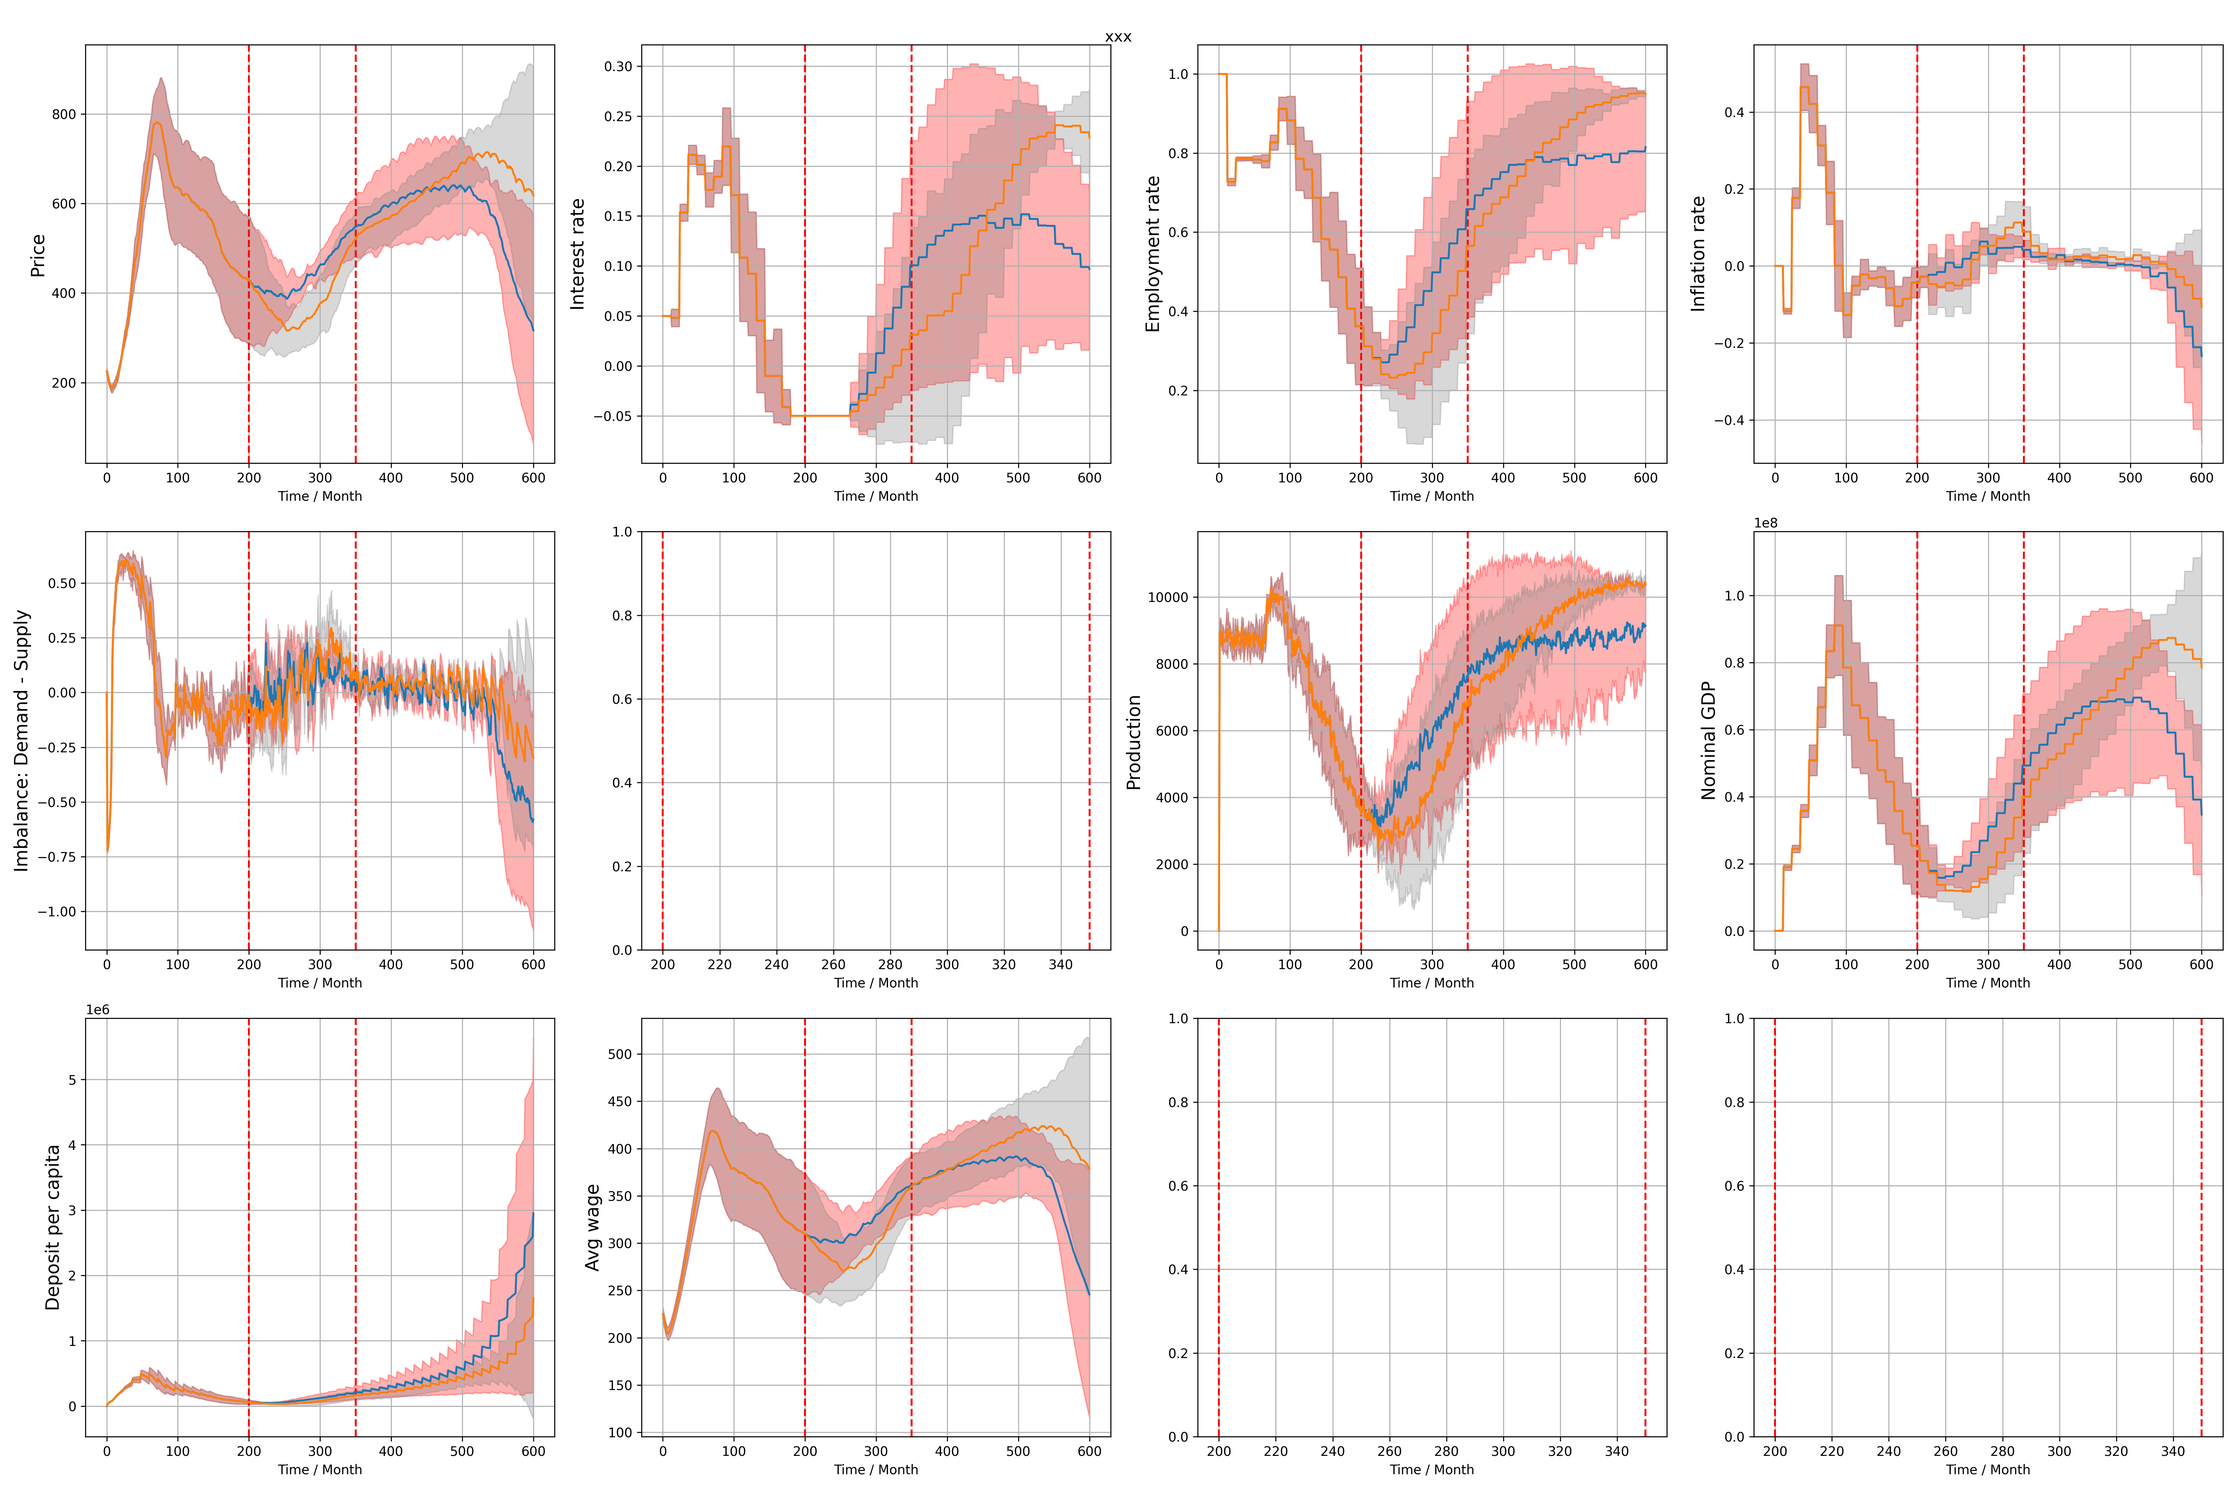
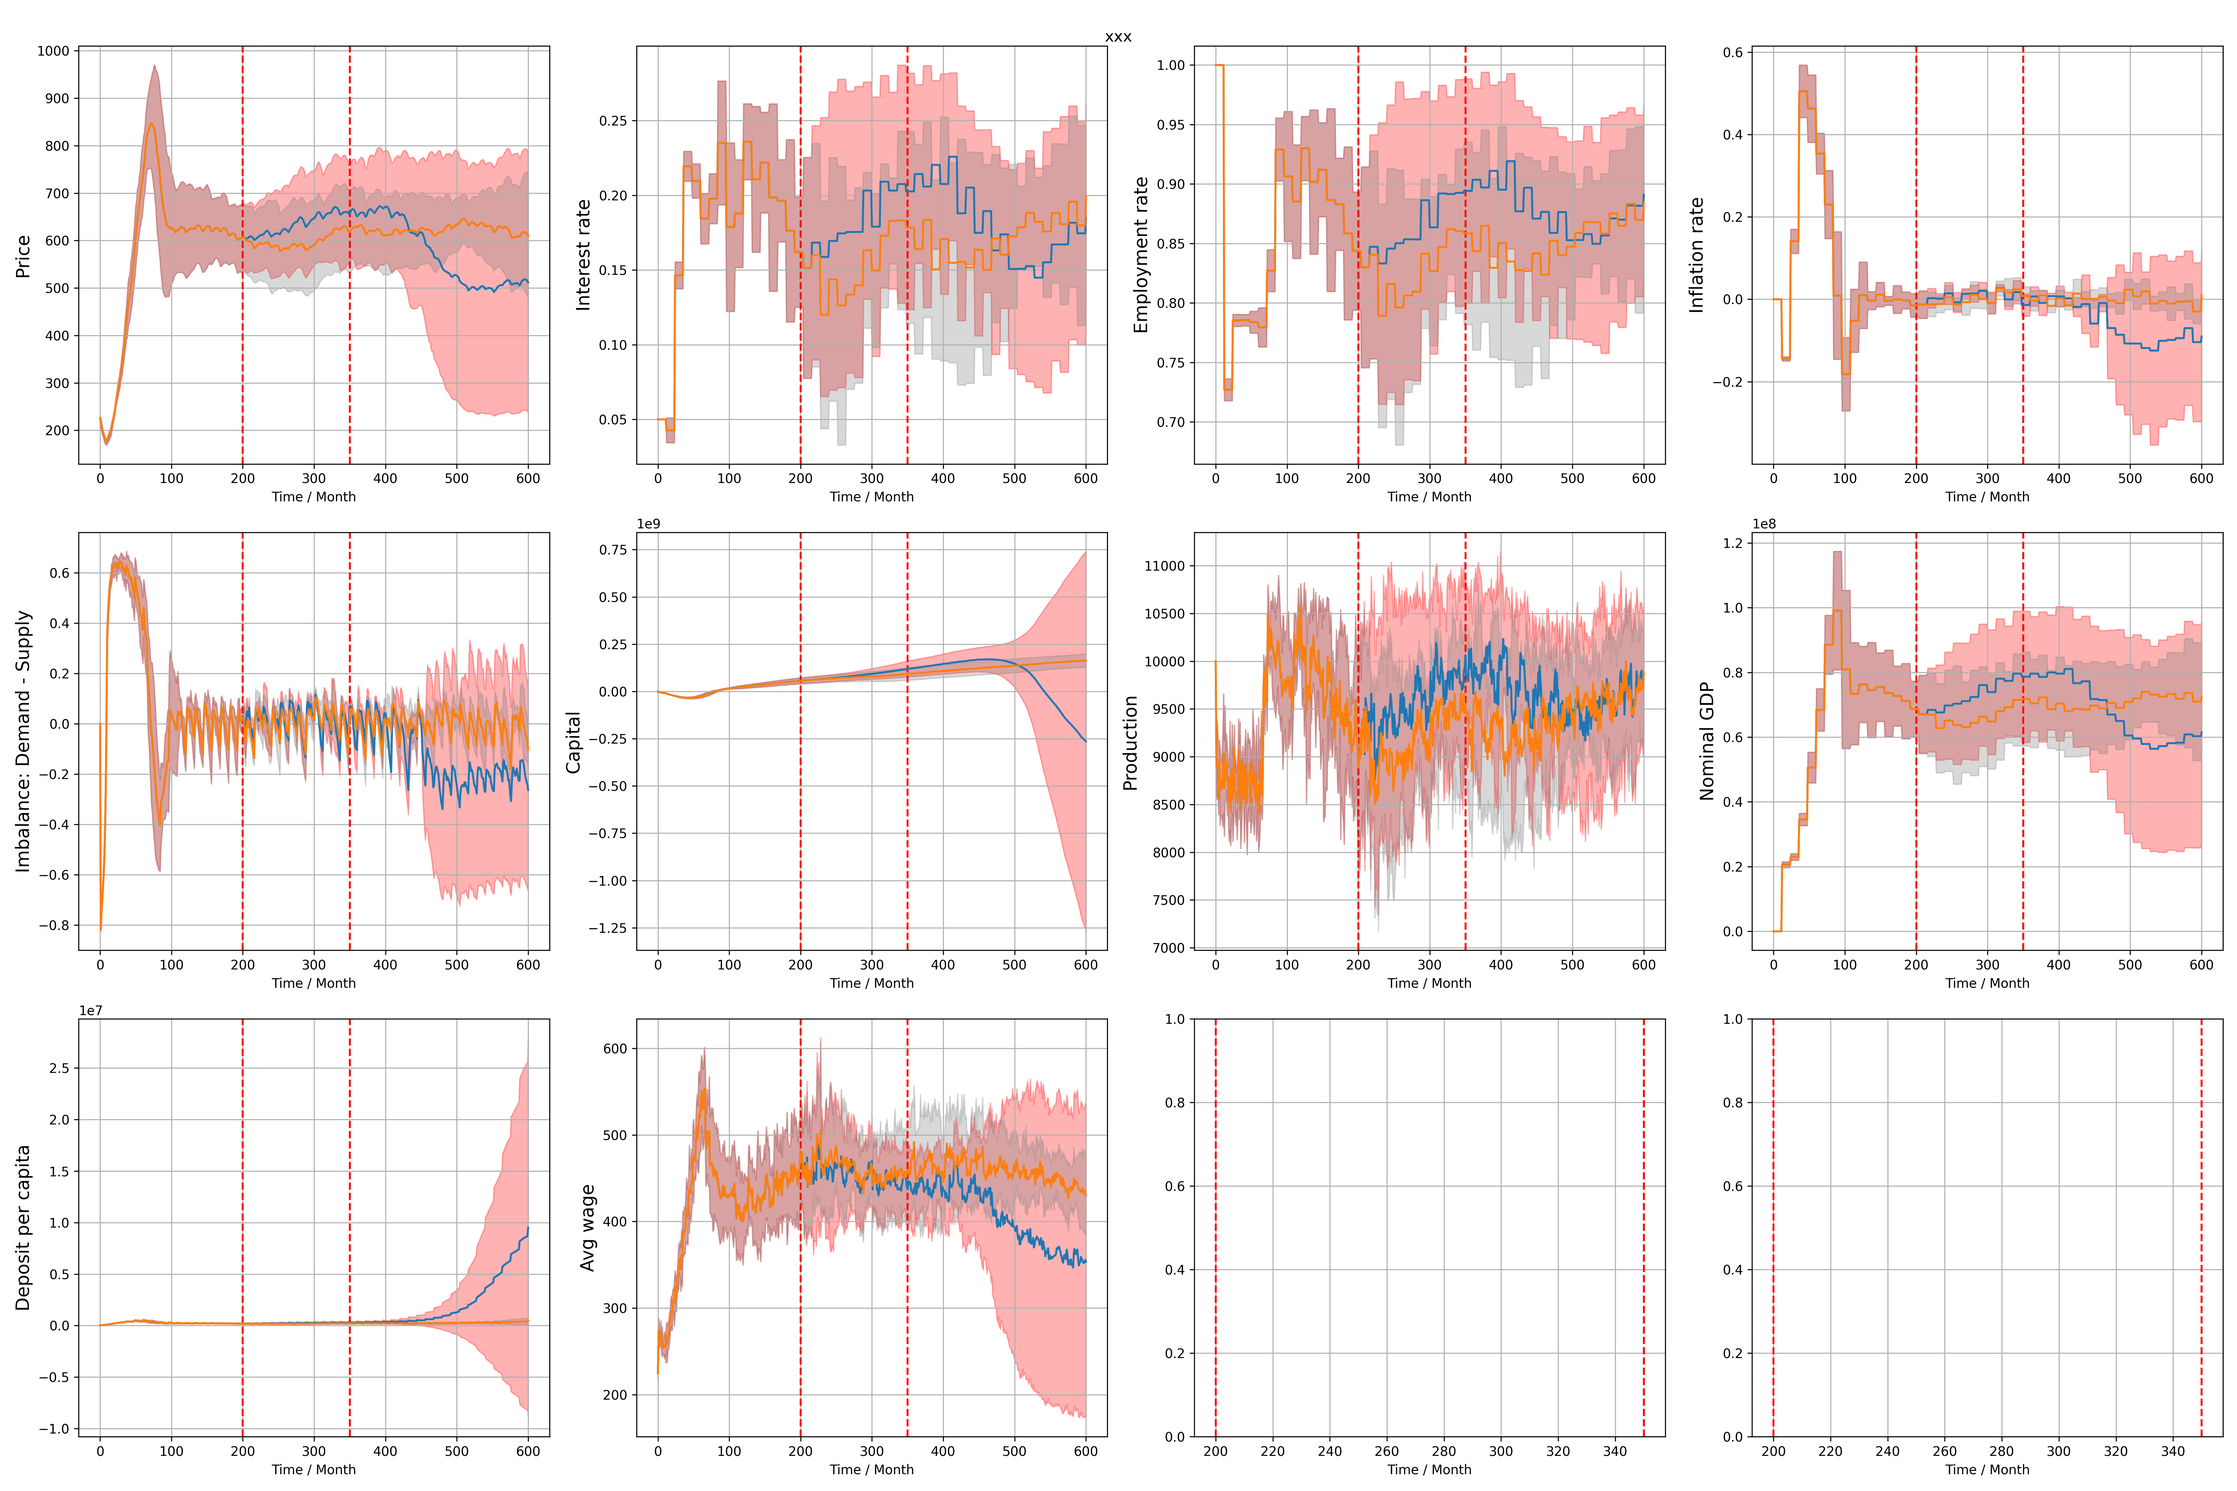
123

diff --git a/utils.py b/utils.py
@@ -99,60 +99,56 @@ def plot_bar(img_name:str, logs:list[dict], logs_compare:list[dict], config:Conf
     
     prices = np.array([[log[key]['price'] for key in log.keys()] for log in logs])
     prices_mean = np.mean(prices, axis=0)
-    prices_std = np.std(prices, axis=0)
     x = list(range(len(prices[0])))
-    prices_min = prices_mean - prices_std
-    prices_max = prices_mean + prices_std
+    prices_min = prices_mean - np.std(prices, axis=0)
+    prices_max = prices_mean + np.std(prices, axis=0)
     
     
     rates = np.array([[log[key]['rate'] for key in log.keys()] for log in logs])
     rates_mean = np.mean(rates, axis=0)
-    rates_std = np.std(rates, axis=0)
-    rates_min = rates_mean - rates_std
-    rates_max = rates_mean + rates_std
+    rates_min = rates_mean - np.std(rates, axis=0)
+    rates_max = rates_mean + np.std(rates, axis=0)
     
     um_rates = [[1-log[key]['unemployment_rate'] for key in log.keys()] for log in logs]
     um_rates_mean = np.mean(um_rates, axis=0)
-    um_rates_std = np.std(um_rates, axis=0)
-    um_rates_min = um_rates_mean - um_rates_std
-    um_rates_max = um_rates_mean + um_rates_std
+    um_rates_min = um_rates_mean - np.std(um_rates, axis=0)
+    um_rates_max = um_rates_mean + np.std(um_rates, axis=0)
     
     inflation_rates = [[log[key]['inflation_rate'] for key in log.keys()] for log in logs]
     inflation_rates_mean = np.mean(inflation_rates, axis=0)
-    inflation_rates_std = np.std(inflation_rates, axis=0)
-    inflation_rates_min = inflation_rates_mean - inflation_rates_std
-    inflation_rates_max = inflation_rates_mean + inflation_rates_std
+    inflation_rates_min = inflation_rates_mean - np.std(inflation_rates, axis=0)
+    inflation_rates_max = inflation_rates_mean + np.std(inflation_rates, axis=0)
     
     
     imbas = [[log[key]['imbalance'] for key in log.keys()] for log in logs]
     imbas_mean = np.mean(imbas, axis=0)
-    imbas_std = np.std(imbas, axis=0)
-    imbas_min = imbas_mean - imbas_std
-    imbas_max = imbas_mean + imbas_std
+    imbas_min = imbas_mean - np.std(imbas, axis=0)
+    imbas_max = imbas_mean + np.std(imbas, axis=0)
+    
+    capitals = [[log[key]['capital'] for key in log.keys()] for log in logs]
+    capitals_mean = np.mean(capitals, axis=0)
+    capitals_min = capitals_mean - np.std(capitals, axis=0)
+    capitals_max = capitals_mean + np.std(capitals, axis=0)
     
     productions = [[log[key]['production'] for key in log.keys()] for log in logs]
     productions_mean = np.mean(productions, axis=0)
-    productions_std = np.std(productions, axis=0)
-    productions_min = productions_mean - productions_std
-    productions_max = productions_mean + productions_std
+    productions_min = productions_mean - np.std(productions, axis=0)
+    productions_max = productions_mean + np.std(productions, axis=0)
     
     GDPs = [[log[key]['GDP'] for key in log.keys()] for log in logs]
     GDPs_mean = np.mean(GDPs, axis=0)
-    GDPs_std = np.std(GDPs, axis=0)
-    GDPs_min = GDPs_mean - GDPs_std
-    GDPs_max = GDPs_mean + GDPs_std
+    GDPs_min = GDPs_mean - np.std(GDPs, axis=0)
+    GDPs_max = GDPs_mean + np.std(GDPs, axis=0)
     
     deposits = [[total_deposit(log[key]['deposit'])/config.num_agents for key in log.keys()] for log in logs]
     deposits_mean = np.mean(deposits, axis=0)
-    deposits_std = np.std(deposits, axis=0)
-    deposits_min = deposits_mean - deposits_std
-    deposits_max = deposits_mean + deposits_std
+    deposits_min = deposits_mean - np.std(deposits, axis=0)
+    deposits_max = deposits_mean + np.std(deposits, axis=0)
     
     avg_wages = [[log[key]['avg_wage'] for key in log.keys()] for log in logs]
     avg_wages_mean = np.mean(avg_wages, axis=0)
-    avg_wages_std = np.std(avg_wages, axis=0)
-    avg_wages_min = avg_wages_mean - avg_wages_std
-    avg_wages_max = avg_wages_mean + avg_wages_std
+    avg_wages_min = avg_wages_mean - np.std(avg_wages, axis=0)
+    avg_wages_max = avg_wages_mean + np.std(avg_wages, axis=0)
     
     axs[0, 0].plot(x, prices_mean); axs[0, 0].set_ylabel('Price', fontsize=14)
     axs[0, 0].fill_between(x, prices_min, prices_max, color='red', alpha=0.3)
@@ -169,6 +165,9 @@ def plot_bar(img_name:str, logs:list[dict], logs_compare:list[dict], config:Conf
     axs[1, 0].plot(x, imbas_mean); axs[1, 0].set_ylabel('Imbalance: Demand - Supply', fontsize=14)
     axs[1, 0].fill_between(x, imbas_min, imbas_max, color='red', alpha=0.3)
     
+    axs[1, 1].plot(x, capitals_mean); axs[1, 1].set_ylabel('Capital', fontsize=14)
+    axs[1, 1].fill_between(x, capitals_min, capitals_max, color='red', alpha=0.3)
+    
     axs[1, 2].plot(x, productions_mean); axs[1, 2].set_ylabel('Production', fontsize=14)
     axs[1, 2].fill_between(x, productions_min, productions_max, color='red', alpha=0.3)
     
@@ -183,59 +182,55 @@ def plot_bar(img_name:str, logs:list[dict], logs_compare:list[dict], config:Conf
     if logs_compare is not None:
         prices = np.array([[log[key]['price'] for key in log.keys()] for log in logs_compare])
         prices_mean = np.mean(prices, axis=0)
-        prices_std = np.std(prices, axis=0)
         x = list(range(len(prices[0])))
-        prices_min = prices_mean - prices_std
-        prices_max = prices_mean + prices_std
+        prices_min = prices_mean - np.std(prices, axis=0)
+        prices_max = prices_mean + np.std(prices, axis=0)
         
         
         rates = np.array([[log[key]['rate'] for key in log.keys()] for log in logs_compare])
         rates_mean = np.mean(rates, axis=0)
-        rates_std = np.std(rates, axis=0)
-        rates_min = rates_mean - rates_std
-        rates_max = rates_mean + rates_std
+        rates_min = rates_mean - np.std(rates, axis=0)
+        rates_max = rates_mean + np.std(rates, axis=0)
         
         um_rates = [[1-log[key]['unemployment_rate'] for key in log.keys()] for log in logs_compare]
         um_rates_mean = np.mean(um_rates, axis=0)
-        um_rates_std = np.std(um_rates, axis=0)
-        um_rates_min = um_rates_mean - um_rates_std
-        um_rates_max = um_rates_mean + um_rates_std
+        um_rates_min = um_rates_mean - np.std(um_rates, axis=0)
+        um_rates_max = um_rates_mean + np.std(um_rates, axis=0)
         
         inflation_rates = [[log[key]['inflation_rate'] for key in log.keys()] for log in logs_compare]
         inflation_rates_mean = np.mean(inflation_rates, axis=0)
-        inflation_rates_std = np.std(inflation_rates, axis=0)
-        inflation_rates_min = inflation_rates_mean - inflation_rates_std
-        inflation_rates_max = inflation_rates_mean + inflation_rates_std
+        inflation_rates_min = inflation_rates_mean - np.std(inflation_rates, axis=0)
+        inflation_rates_max = inflation_rates_mean + np.std(inflation_rates, axis=0)
         
         imbas = [[log[key]['imbalance'] for key in log.keys()] for log in logs_compare]
         imbas_mean = np.mean(imbas, axis=0)
-        imbas_std = np.std(imbas, axis=0)
-        imbas_min = imbas_mean - imbas_std
-        imbas_max = imbas_mean + imbas_std
+        imbas_min = imbas_mean - np.std(imbas, axis=0)
+        imbas_max = imbas_mean + np.std(imbas, axis=0)
         
+        capitals = [[log[key]['capital'] for key in log.keys()] for log in logs_compare]
+        capitals_mean = np.mean(capitals, axis=0)
+        capitals_min = capitals_mean - np.std(capitals, axis=0)
+        capitals_max = capitals_mean + np.std(capitals, axis=0)
+    
         productions = [[log[key]['production'] for key in log.keys()] for log in logs_compare]
         productions_mean = np.mean(productions, axis=0)
-        productions_std = np.std(productions, axis=0)
-        productions_min = productions_mean - productions_std
-        productions_max = productions_mean + productions_std
+        productions_min = productions_mean - np.std(productions, axis=0)
+        productions_max = productions_mean + np.std(productions, axis=0)
         
         GDPs = [[log[key]['GDP'] for key in log.keys()] for log in logs_compare]
         GDPs_mean = np.mean(GDPs, axis=0)
-        GDPs_std = np.std(GDPs, axis=0)
-        GDPs_min = GDPs_mean - GDPs_std
-        GDPs_max = GDPs_mean + GDPs_std
+        GDPs_min = GDPs_mean - np.std(GDPs, axis=0)
+        GDPs_max = GDPs_mean + np.std(GDPs, axis=0)
         
         deposits = [[total_deposit(log[key]['deposit'])/config.num_agents for key in log.keys()] for log in logs_compare]
         deposits_mean = np.mean(deposits, axis=0)
-        deposits_std = np.std(deposits, axis=0)
-        deposits_min = deposits_mean - deposits_std
-        deposits_max = deposits_mean + deposits_std
+        deposits_min = deposits_mean - np.std(deposits, axis=0)
+        deposits_max = deposits_mean + np.std(deposits, axis=0)
         
         avg_wages = [[log[key]['avg_wage'] for key in log.keys()] for log in logs_compare]
         avg_wages_mean = np.mean(avg_wages, axis=0)
-        avg_wages_std = np.std(avg_wages, axis=0)
-        avg_wages_min = avg_wages_mean - avg_wages_std
-        avg_wages_max = avg_wages_mean + avg_wages_std
+        avg_wages_min = avg_wages_mean - np.std(avg_wages, axis=0)
+        avg_wages_max = avg_wages_mean + np.std(avg_wages, axis=0)
         
         axs[0, 0].plot(x, prices_mean); axs[0, 0].set_ylabel('Price', fontsize=14)
         axs[0, 0].fill_between(x, prices_min, prices_max, color='gray', alpha=0.3)
@@ -252,6 +247,9 @@ def plot_bar(img_name:str, logs:list[dict], logs_compare:list[dict], config:Conf
         axs[1, 0].plot(x, imbas_mean); axs[1, 0].set_ylabel('Imbalance: Demand - Supply', fontsize=14)
         axs[1, 0].fill_between(x, imbas_min, imbas_max, color='gray', alpha=0.3)
         
+        axs[1, 1].plot(x, capitals_mean); axs[1, 1].set_ylabel('Capital', fontsize=14)
+        axs[1, 1].fill_between(x, capitals_min, capitals_max, color='gray', alpha=0.3)
+    
         axs[1, 2].plot(x, productions_mean); axs[1, 2].set_ylabel('Production', fontsize=14)
         axs[1, 2].fill_between(x, productions_min, productions_max, color='gray', alpha=0.3)
         

diff --git a/main.py b/main.py
@@ -45,6 +45,7 @@ def simulation(config:Configuration, event=False, intervention=False):
         'deposit': {i: 0.0 for i in range(config.num_agents)},
         'avg_wage': sum([a.w for a in agents])/config.num_agents,
         'GDP': Nominal_GDP,
+        'capital': F.capital,
         }
     
     for t in range(1, config.num_time_steps+1):
@@ -75,10 +76,8 @@ def simulation(config:Configuration, event=False, intervention=False):
         ################ 事 件 结 束 ################
         
         production = F.produce(agents) # 生产
-        
-        wages = F.pay_wage(agents)
-        taxes = taxation(wages)
-        # print(wages[:10], taxes[:10], '\n\n')
+        wages = F.pay_wage(agents)     # 支付工资
+        taxes = taxation(wages)        # 计算个税
         wages_after_tax = [w - t for w, t in zip(wages, taxes)]
         for a, w in zip(agents, wages_after_tax):
             a.z = w # update monthly income
@@ -86,11 +85,12 @@ def simulation(config:Configuration, event=False, intervention=False):
             
             ################ 干 预 开 始 ################
             if t >= config.intervent_start and t <= config.intervent_end and intervention:
-                B.deposit(a.id, w + sum(taxes)/config.num_agents + 500) # 0.04*B.deposits[a.id] redistribution
+                B.deposit(a.id, w + sum(taxes)/config.num_agents + 900) # 0.04*B.deposits[a.id] redistribution
             else:
                 B.deposit(a.id, w + sum(taxes)/config.num_agents) # redistribution
             ################ 干 预 结 束 ################
         
+        phi_bar = imbalance(agents, F.P, F.G, B.deposits)
         
         ###########################################
         # consumption in random order 随机顺序消费 #
@@ -98,18 +98,22 @@ def simulation(config:Configuration, event=False, intervention=False):
         random_list = np.arange(config.num_agents)
         np.random.shuffle(random_list)
         tmp_G = deepcopy(F.G)
+        total_consume_amount, total_consume_quantity = 0., 0.
         for idx in random_list: 
             a = agents[idx]
             demand = a.pc * B.deposits[a.id] / F.P # intended demand
             demand_actual = min(demand, tmp_G) # actual demand quanity
             consump_actual = demand_actual * F.P # actual consumption
+            total_consume_quantity += demand_actual
             B.deposits[a.id] -= consump_actual # update deposit
             tmp_G -= demand_actual # update inventory of essential goods
-        
+            total_consume_amount += consump_actual
+        F.capital += total_consume_amount
+        # print(t, '总消费量: ', total_consume_quantity)
         #############################
         # price and wage adjustment #
         #############################
-        phi_bar = imbalance(agents, F.P, F.G, B.deposits)
+        
         F.wage_adjustment(agents, phi_bar)
         F.price_adjustment(phi_bar)
         
@@ -138,8 +142,9 @@ def simulation(config:Configuration, event=False, intervention=False):
             'taxes': sum(taxes),
             'unemployment_rate': unem_rate,
             'deposit': deepcopy(B.deposits),
-            'avg_wage': sum([a.w for a in agents])/config.num_agents,
+            'avg_wage': sum([a.w for a in agents])/sum([1 if a.l else 0 for a in agents]),
             'GDP': Nominal_GDP,
+            'capital': F.capital,
             }
         
         if t % 6 == 0 and t > 60:

diff --git a/src/firm.py b/src/firm.py
@@ -5,10 +5,11 @@ from src.agent import agent
 class firm:
     def __init__(self, A:float, alpha_w:float, alpha_p:float):
         self.A = A # universal productivity
-        self.G = 0 # quantity of essential goods
+        self.G = 10000 # quantity of essential goods
         self.P = 0 # price of essential goods
         self.alpha_w = alpha_w # wage adjustment parameter
         self.alpha_p = alpha_p # price adjustment parameter
+        self.capital = 0 # initial capital
 
     def produce(self, agent_list:list[agent],):
         '''
@@ -41,4 +42,5 @@ class firm:
                 wages.append(a.w * 168)
             else:
                 wages.append(0.)
+        self.capital -= sum(wages)
         return wages

diff --git a/config.py b/config.py
@@ -32,7 +32,7 @@ class Configuration:
     un = 0.2 # 0.04          # natural unemployment rate 自然失业率
     alpha_pi = 0.2
     alpha_u = 1 - alpha_pi
-    r_min = -0.05            # minimal inter
+    r_min = 0            # minimal inter
     
     
     #####################################
